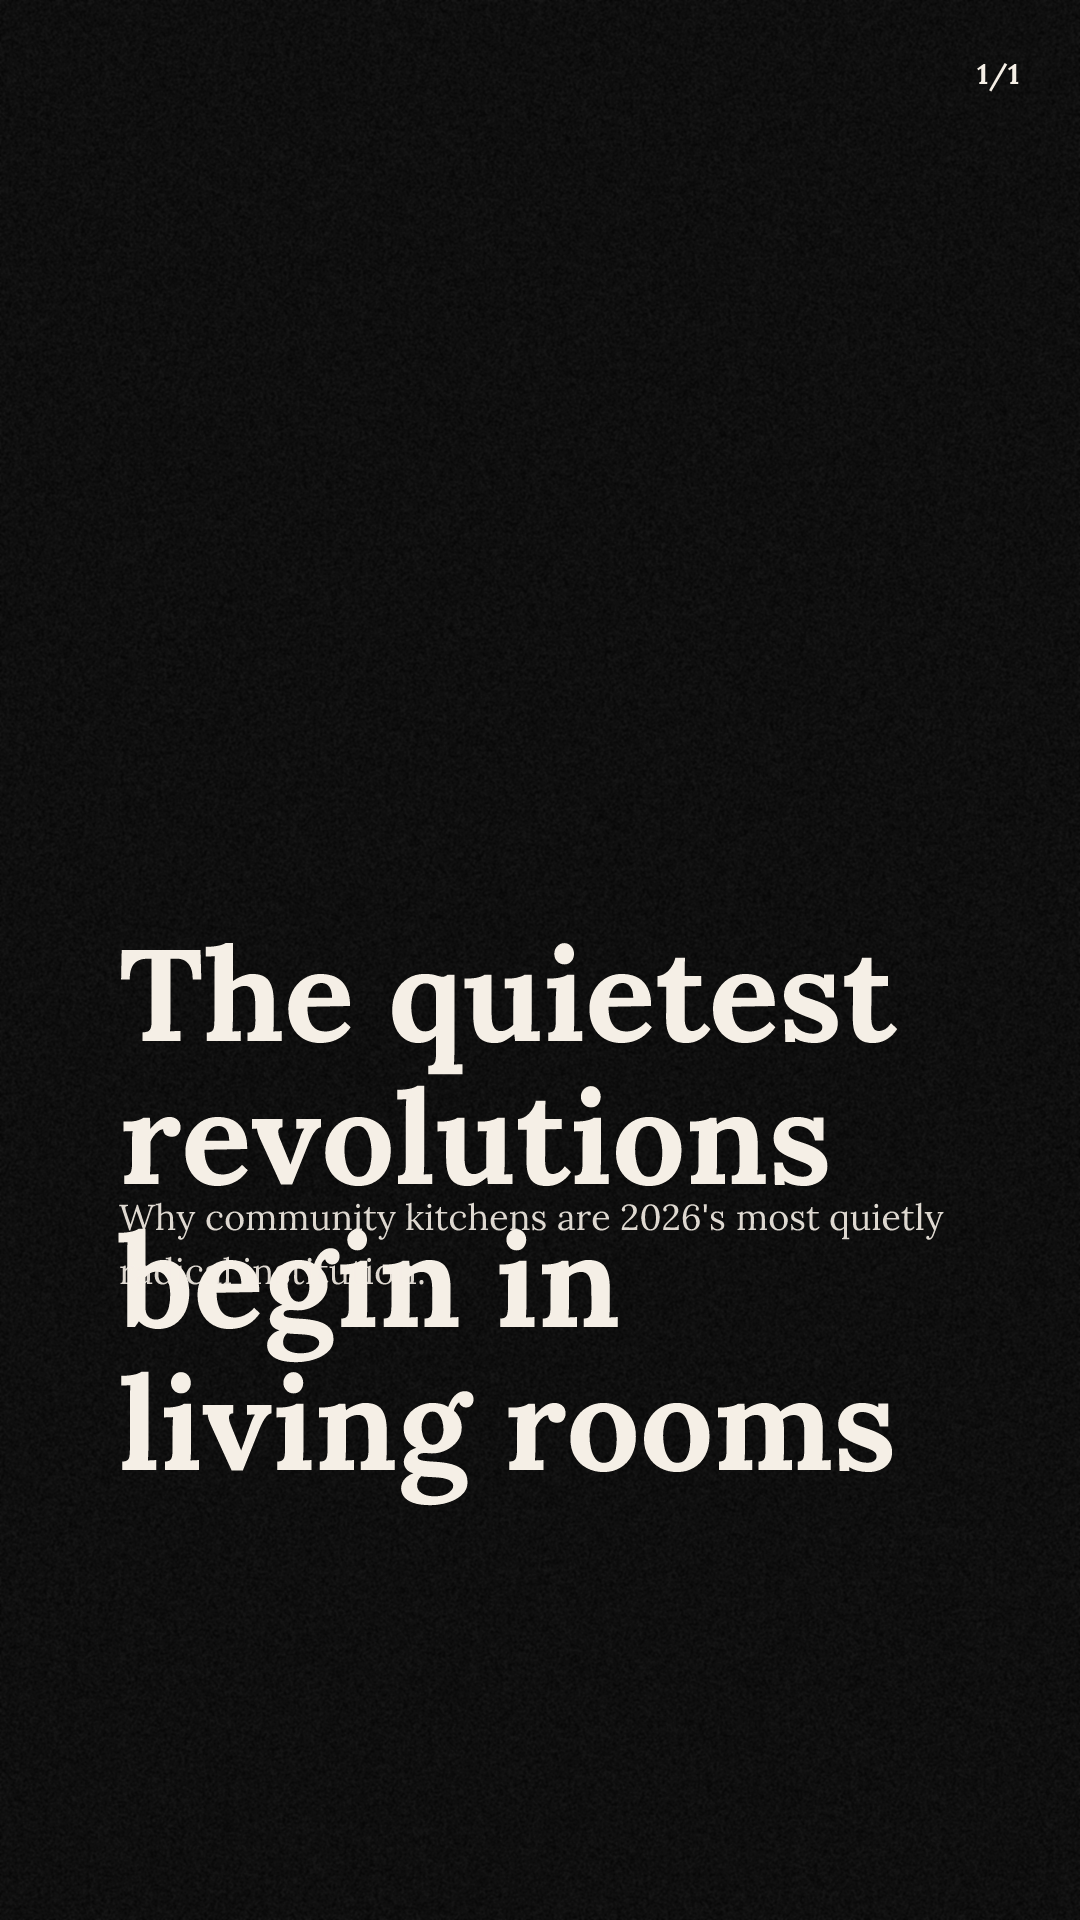
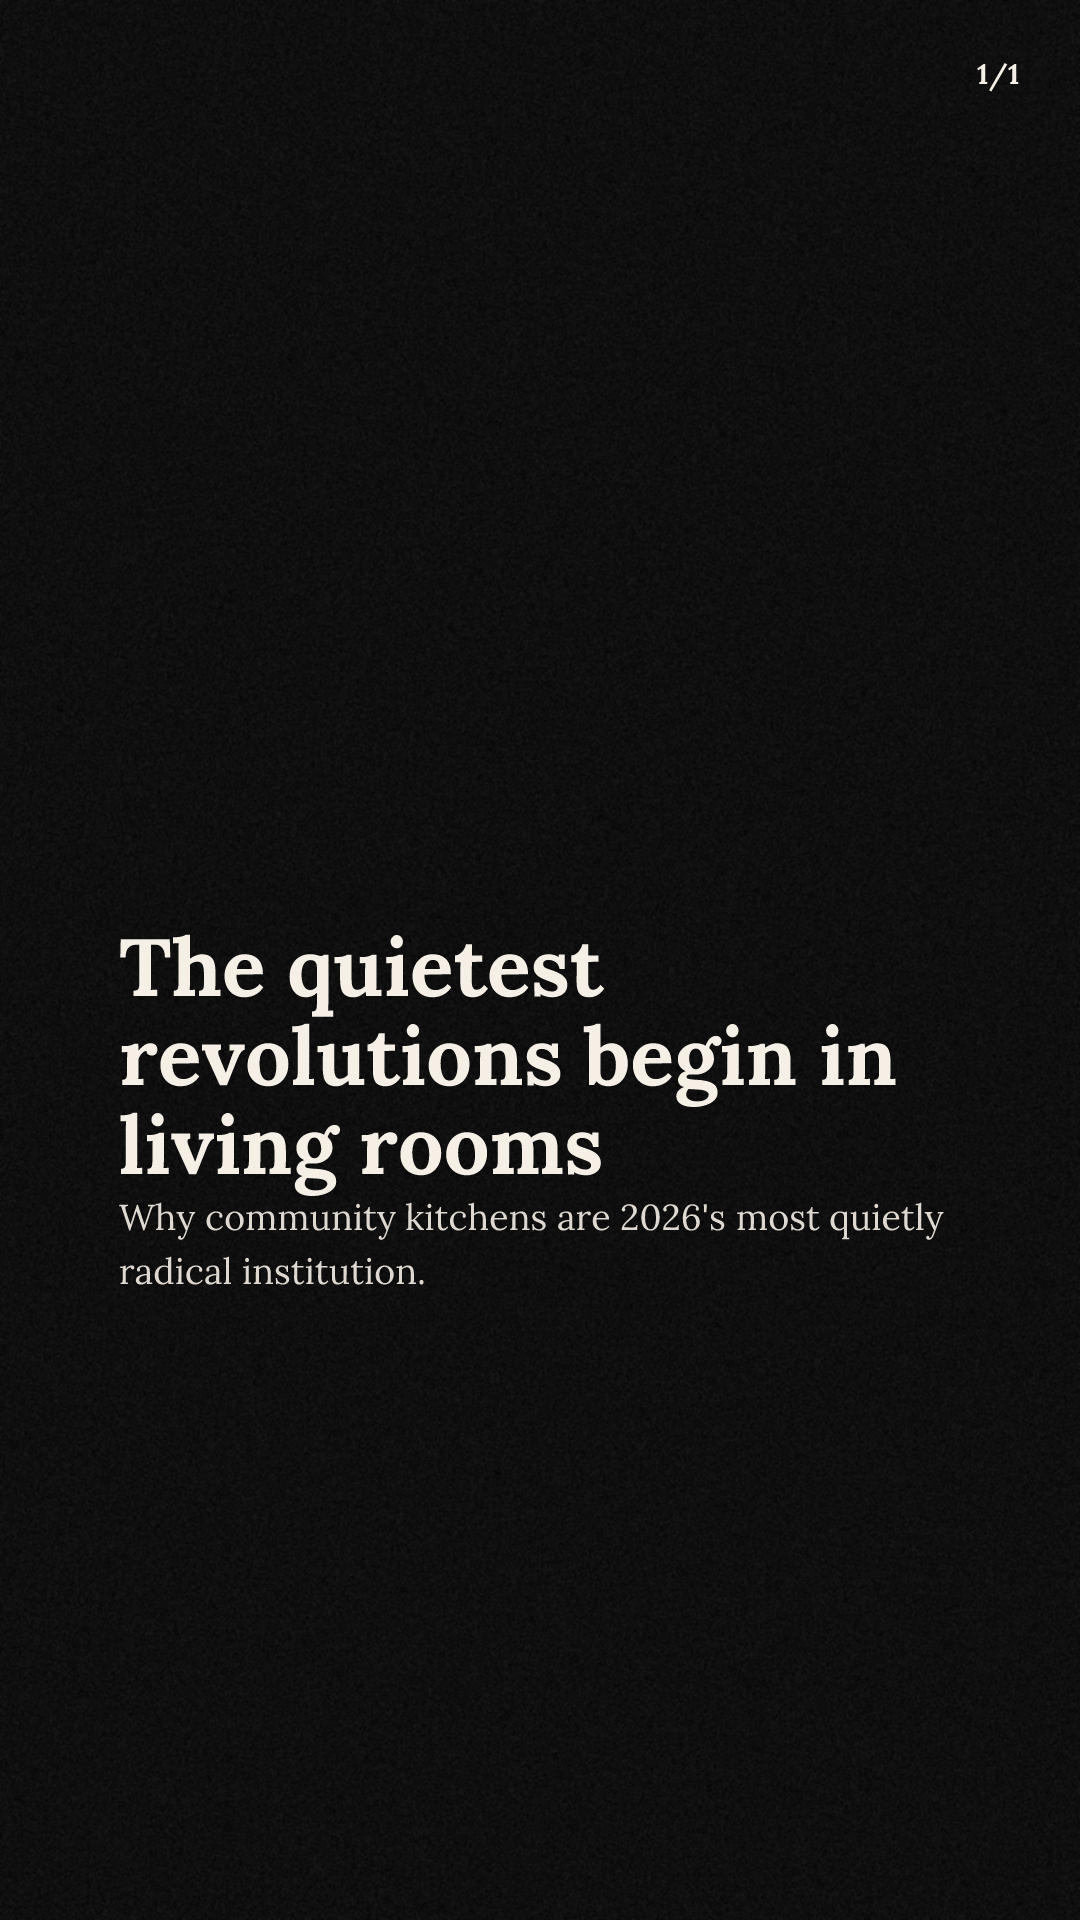
fix(render): generalize hook auto-fit to all templates + constrain pill width
Hook text was overflowing slide bounds in both picker thumbnails and
generated slides because:
- news-hook-fit.ts auto-fit was hard-coded to news-drop / news-cyan only
- v2.9 Phase 55 raised premium hook sizes (72→120px on magazine-bold and
  tr3nding-news; 56→110px on documentary) without enabling auto-fit
- Phase 56 added 3 new templates (editorial-serif 130px, notes-app-chic
  110px, brutalist-grid 180px) with no fitting logic
- Plus Jakarta Sans is wider than Inter, so even existing 110px headlines
  on the swapped templates now wrap further than original calibration
- highlight pill spans had no maxWidth/wordBreak, letting a single long
  pill bleed past the 1080px canvas

Generalize news-hook-fit.ts → hook-fit.ts with a per-template registry
of (baseSize, scaling steps). Each template declares its own curve
calibrated for font + base size + container layout (image-with-bottom-card
templates need tighter curves so multi-line hooks don't bleed into body
zone). Templates not in the registry keep their declared hookFontSize
unchanged via hasHookFit() guard — legacy 5 templates byte-identical.

Add maxWidth: '100%' + wordBreak / overflowWrap to pillStyle in
resolve-overlay.ts to prevent single-pill horizontal overflow.

Tests: +7 hook-fit tests assert thresholds, opt-out, and that every
registered template's sample.hook_text fits within its declared baseSize.
Existing snapshots updated for the 5 newly-registered templates and the
[…]

Changed region(s): [[0.0917, 0.4688, 0.825, 0.7812], [0.4583, 0.7188, 0.825, 0.7812]]

diff --git a/src/lib/render/__tests__/hook-fit.test.ts b/src/lib/render/__tests__/hook-fit.test.ts
@@ -1,0 +1,87 @@
+import { describe, it, expect } from 'vitest'
+import { getHookFontSize, hasHookFit, HOOK_FIT_TEMPLATE_IDS } from '../hook-fit'
+import { templates } from '../templates'
+
+describe('hook-fit registry', () => {
+  it('returns base size unchanged for unregistered templates', () => {
+    expect(getHookFontSize('highlight-bar', 'A long enough hook to scale', 88)).toBe(88)
+    expect(getHookFontSize('y2k-pop', '', 96)).toBe(96)
+    expect(getHookFontSize('not-a-template', 'anything', 64)).toBe(64)
+  })
+
+  it('hasHookFit gates auto-fit per template', () => {
+    expect(hasHookFit('news-drop')).toBe(true)
+    expect(hasHookFit('magazine-bold')).toBe(true)
+    expect(hasHookFit('editorial-serif')).toBe(true)
+    expect(hasHookFit('brutalist-grid')).toBe(true)
+    expect(hasHookFit('highlight-bar')).toBe(false)
+    expect(hasHookFit('y2k-pop')).toBe(false)
+    expect(hasHookFit('bold-yellow')).toBe(false)
+  })
+
+  it('preserves news template thresholds (v2.7 quick-task calibration)', () => {
+    // baseSize 110 — original Anton calibration unchanged.
+    expect(getHookFontSize('news-drop', 'SHORT', 110)).toBe(110) // 5 chars → 1.0
+    expect(getHookFontSize('news-drop', 'A'.repeat(22), 110)).toBe(110) // 22 chars → 1.0
+    expect(getHookFontSize('news-drop', 'A'.repeat(23), 110)).toBe(88) // 23 chars → 0.80
+    expect(getHookFontSize('news-drop', 'A'.repeat(44), 110)).toBe(88) // 44 chars → 0.80
+    expect(getHookFontSize('news-drop', 'A'.repeat(45), 110)).toBe(70) // 45 chars → 0.64
+    expect(getHookFontSize('news-drop', 'A'.repeat(67), 110)).toBe(57) // 67+ chars → 0.52
+    expect(getHookFontSize('news-cyan', 'AMAZON FACES PRICE-FIXING ALLEGATIONS', 110)).toBe(88)
+  })
+
+  it('scales premium template hooks (Plus Jakarta Sans, tighter curve for bottom-card layouts)', () => {
+    // magazine-bold + tr3nding-news baseSize 120
+    expect(getHookFontSize('magazine-bold', 'A'.repeat(15), 120)).toBe(120) // 1.0
+    expect(getHookFontSize('magazine-bold', 'A'.repeat(28), 120)).toBe(84) // 0.70
+    expect(getHookFontSize('magazine-bold', 'A'.repeat(42), 120)).toBe(66) // 0.55
+    expect(getHookFontSize('magazine-bold', 'A'.repeat(60), 120)).toBe(54) // 0.45
+    expect(getHookFontSize('magazine-bold', 'A'.repeat(80), 120)).toBe(46) // 0.38
+
+    // documentary baseSize 110
+    expect(getHookFontSize('documentary', 'A'.repeat(20), 110)).toBe(110) // 1.0
+    expect(getHookFontSize('documentary', 'A'.repeat(38), 110)).toBe(88) // 0.80
+  })
+
+  it('scales Phase 56 templates with their own curves', () => {
+    // editorial-serif baseSize 130
+    expect(getHookFontSize('editorial-serif', 'A'.repeat(16), 130)).toBe(130) // 1.0
+    expect(getHookFontSize('editorial-serif', 'A'.repeat(30), 130)).toBe(101) // 0.78
+    expect(getHookFontSize('editorial-serif', 'A'.repeat(48), 130)).toBe(81) // 0.62
+    expect(getHookFontSize('editorial-serif', 'A'.repeat(80), 130)).toBe(65) // 0.50
+
+    // notes-app-chic baseSize 110
+    expect(getHookFontSize('notes-app-chic', 'A'.repeat(20), 110)).toBe(110)
+    expect(getHookFontSize('notes-app-chic', 'A'.repeat(38), 110)).toBe(88)
+
+    // brutalist-grid baseSize 180 — tightest curve due to 180px+ sizes
+    expect(getHookFontSize('brutalist-grid', 'A'.repeat(10), 180)).toBe(180) // 1.0
+    expect(getHookFontSize('brutalist-grid', 'A'.repeat(20), 180)).toBe(135) // 0.75
+    expect(getHookFontSize('brutalist-grid', 'A'.repeat(32), 180)).toBe(99) // 0.55
+    expect(getHookFontSize('brutalist-grid', 'A'.repeat(50), 180)).toBe(76) // 0.42
+  })
+
+  it('handles null/undefined/empty hook text safely', () => {
+    expect(getHookFontSize('news-drop', null, 110)).toBe(110)
+    expect(getHookFontSize('news-drop', undefined, 110)).toBe(110)
+    expect(getHookFontSize('news-drop', '', 110)).toBe(110)
+    expect(getHookFontSize('news-drop', '   ', 110)).toBe(110) // trim + len 0
+  })
+
+  // Regression guard — every template's actual sample.hook_text must resolve
+  // to a font size that is no larger than the template's declared
+  // hookFontSize. Catches future sample-text changes that would re-introduce
+  // the v2.9 overflow bug in picker thumbnails.
+  it('every registered template sample fits within its base size', () => {
+    for (const tplId of HOOK_FIT_TEMPLATE_IDS) {
+      const tpl = templates.find((t) => t.id === tplId)
+      expect(tpl, `template ${tplId} must exist in registry`).toBeDefined()
+      if (!tpl) continue
+      const sampleHook = tpl.sample?.hook_text ?? ''
+      const baseSize = parseInt(tpl.hookFontSize, 10)
+      const fittedSize = getHookFontSize(tplId, sampleHook, baseSize)
+      expect(fittedSize).toBeLessThanOrEqual(baseSize)
+      expect(fittedSize).toBeGreaterThan(0)
+    }
+  })
+})

diff --git a/src/lib/render/hook-fit.ts b/src/lib/render/hook-fit.ts
@@ -1,0 +1,117 @@
+// Per-template hook auto-fit. Shrinks the hook fontSize as the headline gets
+// longer so multi-line hooks stay inside each template's reserved hook zone.
+//
+// Calibrated per template-font: condensed display fonts (Anton) fit more chars
+// per line than proportional sans (Plus Jakarta Sans) at the same px size, so
+// each template declares its own thresholds. Templates not in the registry
+// keep their declared `hookFontSize` unchanged (auto-opt-out).
+
+type HookFitStep = { maxChars: number; scale: number }
+type HookFitSpec = { baseSize: number; steps: HookFitStep[] }
+
+// Curves below assume baseSize equal to the template's declared hookFontSize.
+// `steps` are evaluated in order; first step where `len <= maxChars` wins.
+// If none match, the last step's scale applies.
+const HOOK_FIT_REGISTRY: Record<string, HookFitSpec> = {
+  // News templates — Anton (condensed). Original v2.7 calibration preserved.
+  'news-drop': {
+    baseSize: 110,
+    steps: [
+      { maxChars: 22, scale: 1 },
+      { maxChars: 44, scale: 0.8 },
+      { maxChars: 66, scale: 0.64 },
+      { maxChars: Infinity, scale: 0.52 },
+    ],
+  },
+  'news-cyan': {
+    baseSize: 110,
+    steps: [
+      { maxChars: 22, scale: 1 },
+      { maxChars: 44, scale: 0.8 },
+      { maxChars: 66, scale: 0.64 },
+      { maxChars: Infinity, scale: 0.52 },
+    ],
+  },
+  // Premium magazine — Plus Jakarta Sans (proportional, wider) on a tight
+  // image-with-bottom-card layout where hook + body share ~40% of canvas
+  // height. Tighter curve so 4+-line wraps don't bleed into the body zone.
+  'magazine-bold': {
+    baseSize: 120,
+    steps: [
+      { maxChars: 15, scale: 1 },
+      { maxChars: 28, scale: 0.7 },
+      { maxChars: 42, scale: 0.55 },
+      { maxChars: 60, scale: 0.45 },
+      { maxChars: Infinity, scale: 0.38 },
+    ],
+  },
+  'tr3nding-news': {
+    baseSize: 120,
+    steps: [
+      { maxChars: 15, scale: 1 },
+      { maxChars: 28, scale: 0.7 },
+      { maxChars: 42, scale: 0.55 },
+      { maxChars: 60, scale: 0.45 },
+      { maxChars: Infinity, scale: 0.38 },
+    ],
+  },
+  'documentary': {
+    baseSize: 110,
+    steps: [
+      { maxChars: 20, scale: 1 },
+      { maxChars: 38, scale: 0.8 },
+      { maxChars: 60, scale: 0.64 },
+      { maxChars: Infinity, scale: 0.52 },
+    ],
+  },
+  // Phase 56 templates.
+  'editorial-serif': {
+    baseSize: 130,
+    steps: [
+      { maxChars: 16, scale: 1 },
+      { maxChars: 30, scale: 0.78 },
+      { maxChars: 48, scale: 0.62 },
+      { maxChars: Infinity, scale: 0.5 },
+    ],
+  },
+  'notes-app-chic': {
+    baseSize: 110,
+    steps: [
+      { maxChars: 20, scale: 1 },
+      { maxChars: 38, scale: 0.8 },
+      { maxChars: 60, scale: 0.64 },
+      { maxChars: Infinity, scale: 0.52 },
+    ],
+  },
+  // Brutalist hits 180/220px — even short headlines need aggressive scaling.
+  'brutalist-grid': {
+    baseSize: 180,
+    steps: [
+      { maxChars: 10, scale: 1 },
+      { maxChars: 20, scale: 0.75 },
+      { maxChars: 32, scale: 0.55 },
+      { maxChars: Infinity, scale: 0.42 },
+    ],
+  },
+}
+
+export function getHookFontSize(
+  templateId: string,
+  hookText: string | null | undefined,
+  baseSize: number,
+): number {
+  const spec = HOOK_FIT_REGISTRY[templateId]
+  if (!spec) return baseSize
+  const len = (hookText ?? '').trim().length
+  for (const step of spec.steps) {
+    if (len <= step.maxChars) return Math.round(baseSize * step.scale)
+  }
+  return Math.round(baseSize * spec.steps[spec.steps.length - 1].scale)
+}
+
+export function hasHookFit(templateId: string): boolean {
+  return templateId in HOOK_FIT_REGISTRY
+}
+
+// Test-only export so the unit suite can iterate the registry.
+export const HOOK_FIT_TEMPLATE_IDS = Object.keys(HOOK_FIT_REGISTRY)

diff --git a/src/components/slides/slide-preview.tsx b/src/components/slides/slide-preview.tsx
@@ -9,7 +9,7 @@ import { useAlignmentGuides, type TextBox } from '@/hooks/use-alignment-guides'
 import { resolveSlideStyles, buildHighlightWrapperStyle, type ResolvedTextEffectStyles } from '@/lib/render/resolve-styles'
 import { resolveWatermark } from '@/lib/render/resolve-watermark'
 import { resolveForcedWatermark } from '@/lib/render/resolve-forced-watermark'
-import { isNewsTemplate, getNewsHookFontSize } from '@/lib/render/news-hook-fit'
+import { getHookFontSize, hasHookFit } from '@/lib/render/hook-fit'
 // Phase 45 — shared resolver that guarantees the React preview renders overlay
 // content + slot anchors + per-segment highlight pills with the SAME source as
 // the Satori PNG export (TPLREND-05 parity contract). The 5-export surface is
@@ -301,13 +301,14 @@ export function SlidePreview({
   const hookTextColor = overrides.hook_text_color ?? textColor
   const bodyTextColor = overrides.body_text_color ?? textColor
   const textAlign = overrides.text_align ?? template.textAlign
-  // News templates auto-shrink the hook size for long headlines so multi-line
-  // hooks don't overflow into the body zone (60-80% Y window in cover layout).
+  // Templates with a hook-fit registry entry auto-shrink the hook size for long
+  // headlines so multi-line hooks don't overflow the reserved hook zone.
+  // Templates not in the registry keep their declared hookFontSize unchanged.
   // Manual `hook_font_size` override always wins.
   const baseHookSize = parseInt(template.hookFontSize)
   const autoFitHookSize =
-    overrides.hook_font_size == null && isNewsTemplate(template.id)
-      ? getNewsHookFontSize(slide.hook_text, baseHookSize)
+    overrides.hook_font_size == null && hasHookFit(template.id)
+      ? getHookFontSize(template.id, slide.hook_text, baseHookSize)
       : null
   const hookFontSize = overrides.hook_font_size ?? autoFitHookSize ?? baseHookSize
   const bodyFontSize = overrides.body_font_size ?? parseInt(template.bodyFontSize)

diff --git a/src/lib/render/render-slide.ts b/src/lib/render/render-slide.ts
@@ -4,7 +4,7 @@ import type { BrandKit } from '../types/brand-kit'
 import { resolveSlideStyles, type ResolvedTextEffectStyles } from './resolve-styles'
 import { resolveWatermark } from './resolve-watermark'
 import { resolveForcedWatermark, type ForcedWatermarkTier } from './resolve-forced-watermark'
-import { isNewsTemplate, getNewsHookFontSize } from './news-hook-fit'
+import { getHookFontSize, hasHookFit } from './hook-fit'
 
 // TikTok/Instagram safe zones on 1080x1920 canvas
 // Top ~200px (10.4%), Bottom ~480px from bottom (max y ~75%), Sides ~120px (11%)
@@ -121,12 +121,12 @@ export function buildSlideHtml(
 
   const textColor = overrides.text_color ?? template.textColor
   const textAlign = overrides.text_align ?? template.textAlign
-  // News templates auto-shrink the hook size for long headlines so multi-line
-  // hooks don't overflow into the body zone. Manual override always wins.
+  // Templates with a hook-fit registry entry auto-shrink hook size for long
+  // headlines. Manual override always wins.
   const baseHookSizePx = parseInt(template.hookFontSize, 10) || 64
   const autoFitHookPx =
-    overrides.hook_font_size == null && isNewsTemplate(template.id)
-      ? getNewsHookFontSize(slide.hook_text, baseHookSizePx)
+    overrides.hook_font_size == null && hasHookFit(template.id)
+      ? getHookFontSize(template.id, slide.hook_text, baseHookSizePx)
       : null
   const hookFontSize = overrides.hook_font_size
     ? `${overrides.hook_font_size}px`

diff --git a/src/lib/render/render-slide-satori.tsx b/src/lib/render/render-slide-satori.tsx
@@ -5,7 +5,7 @@ import React from 'react'
 import { resolveSlideStyles, type ResolvedTextEffectStyles } from './resolve-styles'
 import { resolveWatermark } from './resolve-watermark'
 import { resolveForcedWatermark, type ForcedWatermarkTier } from './resolve-forced-watermark'
-import { isNewsTemplate, getNewsHookFontSize } from './news-hook-fit'
+import { getHookFontSize, hasHookFit } from './hook-fit'
 import {
   resolveOverlayContent,
   SLOT_GEOMETRY,
@@ -122,12 +122,12 @@ export function buildSlideElement(
 
   const textColor = overrides.text_color ?? template.textColor
   const textAlign = overrides.text_align ?? template.textAlign
-  // News templates auto-shrink the hook size for long headlines so multi-line
-  // hooks don't overflow into the body zone. Manual override always wins.
+  // Templates with a hook-fit registry entry auto-shrink hook size for long
+  // headlines. Manual override always wins.
   const baseHookSizePx = parseInt(template.hookFontSize, 10) || 64
   const autoFitHookPx =
-    overrides.hook_font_size == null && isNewsTemplate(template.id)
-      ? getNewsHookFontSize(slide.hook_text, baseHookSizePx)
+    overrides.hook_font_size == null && hasHookFit(template.id)
+      ? getHookFontSize(template.id, slide.hook_text, baseHookSizePx)
       : null
   const hookFontSize = overrides.hook_font_size
     ? overrides.hook_font_size

diff --git a/src/lib/render/resolve-overlay.ts b/src/lib/render/resolve-overlay.ts
@@ -184,6 +184,11 @@ export function renderSegments(
         padding: isPill ? '4px 12px' : '4px 8px',
         borderRadius: isPill ? '8px' : '0',
         marginRight: isLast ? '0' : '8px',
+        // Prevent a single long-word pill from extending past the hook
+        // container's flex bounds and bleeding past the 1080px canvas.
+        maxWidth: '100%',
+        wordBreak: 'break-word',
+        overflowWrap: 'break-word',
         ...segmentFontFamily,
       }
       return React.createElement('span', { key: `${i}-${seg.text.slice(0, 20)}`, style: pillStyle }, seg.text)
